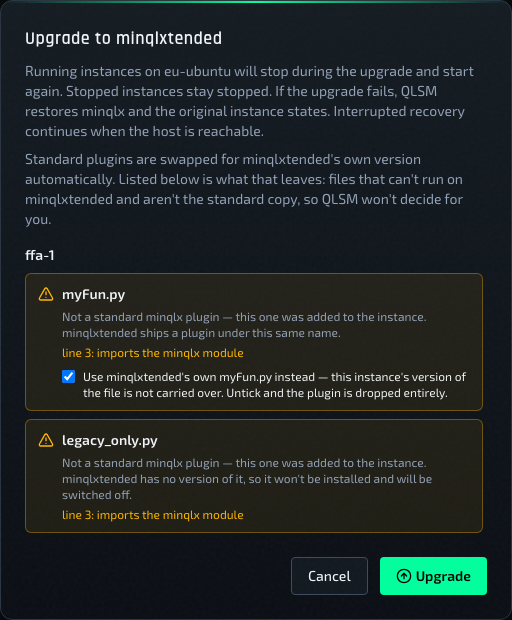
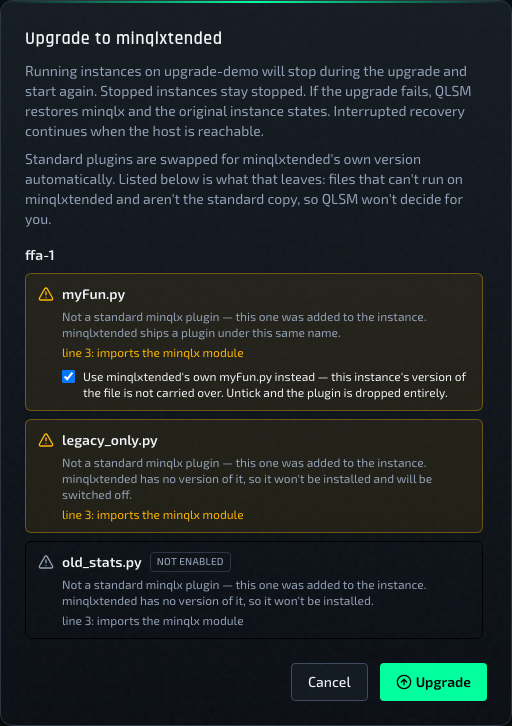
Mark disabled plugins in the minqlxtended upgrade dialog
The upgrade dialog lists every plugin file that won't carry over, enabled
or not. Disabled rows looked the same as enabled ones, so an unused file
read like something that would break a running server.

Rows for plugins the instance hasn't enabled now get a "Not enabled" tag
and muted styling, and sort after enabled ones. The flag is only turned on
in the upgrade dialog: an instance's originally_checked is exact, but a
legacy preset reports every row as unchecked.

Changed region(s): [[0.0312, 0.3984, 0.9375, 0.8581], [0.0312, 0.0, 0.9375, 0.3677], [0.5625, 0.8887, 0.9688, 0.9806]]

diff --git a/frontend-react/src/components/presetManager/CompatibilityRow.jsx b/frontend-react/src/components/presetManager/CompatibilityRow.jsx
@@ -7,15 +7,27 @@ import { AlertTriangle, RefreshCw } from 'lucide-react';
 //
 // Ticking a row means "take the target runtime's file". It does NOT mean
 // "enable this plugin".
+//
+// `showEnablement` marks rows for plugins the source does not have enabled and
+// tones them down: their loss cannot break anything that runs today. Only the
+// runtime-upgrade dialog passes it. There `originally_checked` is exact (an
+// instance with no qlx_plugins loads no user plugins). A legacy preset with no
+// checked_plugins.json reports every row as not checked, so the preset dialog
+// would mislabel all of them.
 
-function CompatibilityRow({ entry, sourceRuntime, targetRuntime, checked, onToggle, sourceNoun = 'preset' }) {
+function CompatibilityRow({
+  entry, sourceRuntime, targetRuntime, checked, onToggle, sourceNoun = 'preset', showEnablement = false,
+}) {
   const replaceable = Boolean(entry.replacement) || entry.kind === 'replaceable';
   const reasons = entry.reasons || [];
+  const notEnabled = showEnablement && !entry.originally_checked;
+  const muted = entry.auto_replaced || notEnabled;
+  const detailTone = notEnabled ? 'text-theme-secondary' : 'text-[var(--accent-warning)]';
 
   return (
     <li
       className={
-        entry.auto_replaced
+        muted
           ? 'rounded-md border border-theme/60 bg-theme-secondary/40 px-3 py-2.5 text-xs'
           : 'rounded-md border border-[var(--accent-warning)]/35 bg-[var(--accent-warning)]/8 px-3 py-2.5 text-xs'
       }
@@ -29,10 +41,17 @@ function CompatibilityRow({ entry, sourceRuntime, targetRuntime, checked, onTogg
         {entry.auto_replaced ? (
           <RefreshCw className="mt-0.5 h-4 w-4 flex-shrink-0 text-theme-secondary" />
         ) : (
-          <AlertTriangle className="mt-0.5 h-4 w-4 flex-shrink-0 text-[var(--accent-warning)]" />
+          <AlertTriangle className={`mt-0.5 h-4 w-4 flex-shrink-0 ${detailTone}`} />
         )}
         <div className="min-w-0 flex-1 text-left">
-          <div className="text-sm font-semibold text-theme-primary">{entry.path}</div>
+          <div className="flex flex-wrap items-center gap-2">
+            <span className="text-sm font-semibold text-theme-primary">{entry.path}</span>
+            {notEnabled && (
+              <span className="rounded border border-theme px-1.5 py-0.5 text-[10px] font-medium uppercase tracking-wide text-theme-secondary">
+                Not enabled
+              </span>
+            )}
+          </div>
           {/* Why this file is here at all, in the operator's terms.
               `from_catalog` is the difference between "a standard plugin whose
               copy here differs" and "a plugin of your own". Deliberately does
@@ -57,11 +76,11 @@ function CompatibilityRow({ entry, sourceRuntime, targetRuntime, checked, onTogg
               {' '}{sourceNoun} made to it are not carried over.
             </p>
           ) : entry.verdict === 'unknown' ? (
-            <p className="mt-1 text-[var(--accent-warning)]">
+            <p className={`mt-1 ${detailTone}`}>
               Not part of the {targetRuntime} baseline; QLSM can&apos;t confirm this plugin will run.
             </p>
           ) : (
-            <ul className="mt-1 space-y-0.5 text-[var(--accent-warning)]">
+            <ul className={`mt-1 space-y-0.5 ${detailTone}`}>
               {reasons.map((reason) => (
                 <li key={reason}>{reason}</li>
               ))}

diff --git a/frontend-react/src/components/hosts/RuntimeUpgradeDialog.jsx b/frontend-react/src/components/hosts/RuntimeUpgradeDialog.jsx
@@ -14,6 +14,11 @@ const TARGET_RUNTIME = 'minqlxtended';
 
 const errorMessage = (err, fallback) => err?.response?.data?.error?.message || err?.message || fallback;
 const isReplaceable = (row) => row.kind === 'replaceable' || Boolean(row.replacement);
+// Plugins the instance has enabled first: those are what can break a running
+// server. Disabled ones follow, toned down by CompatibilityRow. Stable sort, so
+// each group keeps the backend's path order.
+const enabledFirst = (rows) => [...rows].sort(
+  (a, b) => Number(!a.originally_checked) - Number(!b.originally_checked));
 
 const tickedDefaults = (instances) => {
   const ticked = {};
@@ -126,11 +131,12 @@ function RuntimeUpgradeDialog({ isOpen, host, onClose, onStarted }) {
                     <section key={inst.instance_id} aria-label={inst.instance_name}>
                       <h4 className="mb-2 text-sm font-semibold text-theme-primary">{inst.instance_name}</h4>
                       <ul className="space-y-2">
-                        {inst.stripped.map((row) => (
+                        {enabledFirst(inst.stripped).map((row) => (
                           <CompatibilityRow
                             key={row.path}
                             entry={row}
                             sourceNoun="instance"
+                            showEnablement
                             sourceRuntime={SOURCE_RUNTIME}
                             targetRuntime={TARGET_RUNTIME}
                             checked={Boolean(ticked[inst.instance_id]?.has(row.path))}

diff --git a/frontend-react/src/components/hosts/__tests__/RuntimeUpgradeDialog.test.jsx b/frontend-react/src/components/hosts/__tests__/RuntimeUpgradeDialog.test.jsx
@@ -110,4 +110,24 @@ describe('RuntimeUpgradeDialog', () => {
     expect(await screen.findByRole('alert')).toHaveTextContent('Plugins changed; review again.');
     expect(onClose).not.toHaveBeenCalled();
   });
+
+  it('labels disabled plugins and lists them after enabled ones', async () => {
+    getRuntimeUpgrade.mockResolvedValue({
+      ...plan,
+      instances: [{
+        instance_id: 1, instance_name: 'alpha',
+        stripped: [
+          row('a_off.py', 'unavailable', { originally_checked: false }),
+          row('b_on.py', 'unavailable'),
+        ],
+        replacements: {}, auto_accepted: [], checked_plugins: ['b_on.py'],
+      }],
+    });
+    renderDialog();
+    const alpha = await screen.findByRole('region', { name: 'alpha' });
+    const items = within(alpha).getAllByRole('listitem').filter((li) => li.parentElement.parentElement === alpha);
+    expect(items.map((li) => li.querySelector('.text-sm').textContent)).toEqual(['b_on.py', 'a_off.py']);
+    expect(within(items[1]).getByText('Not enabled')).toBeInTheDocument();
+    expect(within(items[0]).queryByText('Not enabled')).not.toBeInTheDocument();
+  });
 });

diff --git a/docs/design-system.md b/docs/design-system.md
@@ -103,7 +103,7 @@ input styles — check `index.css` for the full variant before adding a new one.
 | `CodeMirrorEditor` | `CodeMirrorEditor.jsx` | Shared code editor used by file manager / config editors; theme and highlight styles live in `utils/codemirrorSetup.js` (`themeExtensions`, `mergeThemeExtensions`) |
 | `FloatingListbox` | `components/common/FloatingListbox.jsx` | Headless UI `Listbox`-based custom select with floating-ui positioning; supports option badges (`OptionBadge`) and perf chips |
 | `InfoTooltip` | `components/common/InfoTooltip.jsx` | Hover tooltip; props: `size`, `placement` (top/bottom/left/right), `variant` (info/cyan/warning/danger), `testId` (data-testid for the hover target) |
-| `CompatibilityRow` | `components/presetManager/CompatibilityRow.jsx` | One plugin row of a cross-runtime compatibility report (checkbox for replaceable plugins, none for dropped ones); props: `entry`, `sourceRuntime`, `targetRuntime`, `checked`, `onToggle`, `sourceNoun` (`'preset'` default, `'instance'` for the upgrade dialog). Shared by `PresetCompatibilityDialog` and `hosts/RuntimeUpgradeDialog` |
+| `CompatibilityRow` | `components/presetManager/CompatibilityRow.jsx` | One plugin row of a cross-runtime compatibility report (checkbox for replaceable plugins, none for dropped ones); props: `entry`, `sourceRuntime`, `targetRuntime`, `checked`, `onToggle`, `sourceNoun` (`'preset'` default, `'instance'` for the upgrade dialog), `showEnablement` (upgrade dialog only: tags and mutes rows whose `originally_checked` is false; off for presets, where a legacy preset reports every row unchecked). Shared by `PresetCompatibilityDialog` and `hosts/RuntimeUpgradeDialog` |
 | `QlColorString` | `components/common/QlColorString.jsx` | Renders Quake Live `^`-color-coded strings as styled spans |
 | `SubfolderPluginNotice` | `components/fileManager/SubfolderPluginNotice.jsx` | Dismissible `.alert-warning` banner; props: `count` (0 renders nothing), `onDismiss`. Parent owns dismissal state |
 | `SidebarResizeHandle` | `components/fileManager/SidebarResizeHandle.jsx` | Drag handle between the file list and the editor pane; doubles as the 1px divider. Pointer-capture drag, double-click or `Home` resets, arrow keys nudge 16px. Width lives in the `useSidebarWidth` store (module-level + `localStorage`, clamped 200-560, default 320) so all three mounted FileManager tabs resize together |

diff --git a/docs/user/operations/host-actions-menu.md b/docs/user/operations/host-actions-menu.md
@@ -105,6 +105,8 @@ Clicking the action opens a dialog straight away. Nothing is stopped until you c
 - a plugin you edited or that is outdated, where minqlxtended has its own version, has a checkbox: tick it to use minqlxtended's version, leave it unticked to drop the plugin;
 - an enabled plugin minqlxtended has no version of is listed without a checkbox. It will be dropped and switched off.
 
+Plugins the instance has enabled come first. A plugin you wrote or edited that is **not enabled** is still listed, because its file won't be carried over either. It's marked **Not enabled** and greyed out, since nothing running today depends on it.
+
 If nothing needs a decision, the dialog is a plain confirmation. **Cancel** changes nothing. If you or someone else edits an instance while the dialog is open, the upgrade refuses to start and asks you to reopen it, so what you approved is what gets applied.
 
 ### What happens when you confirm
